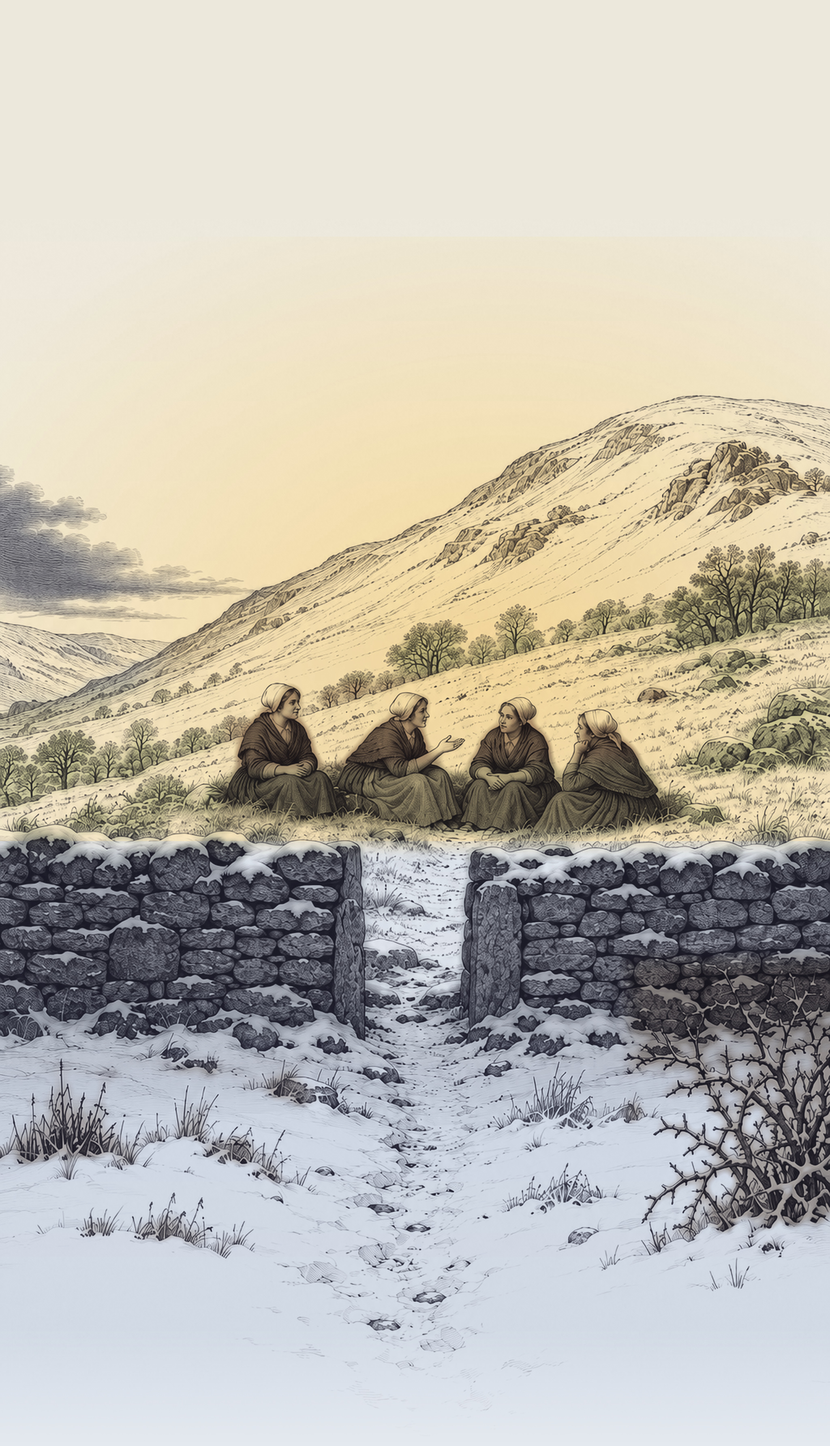
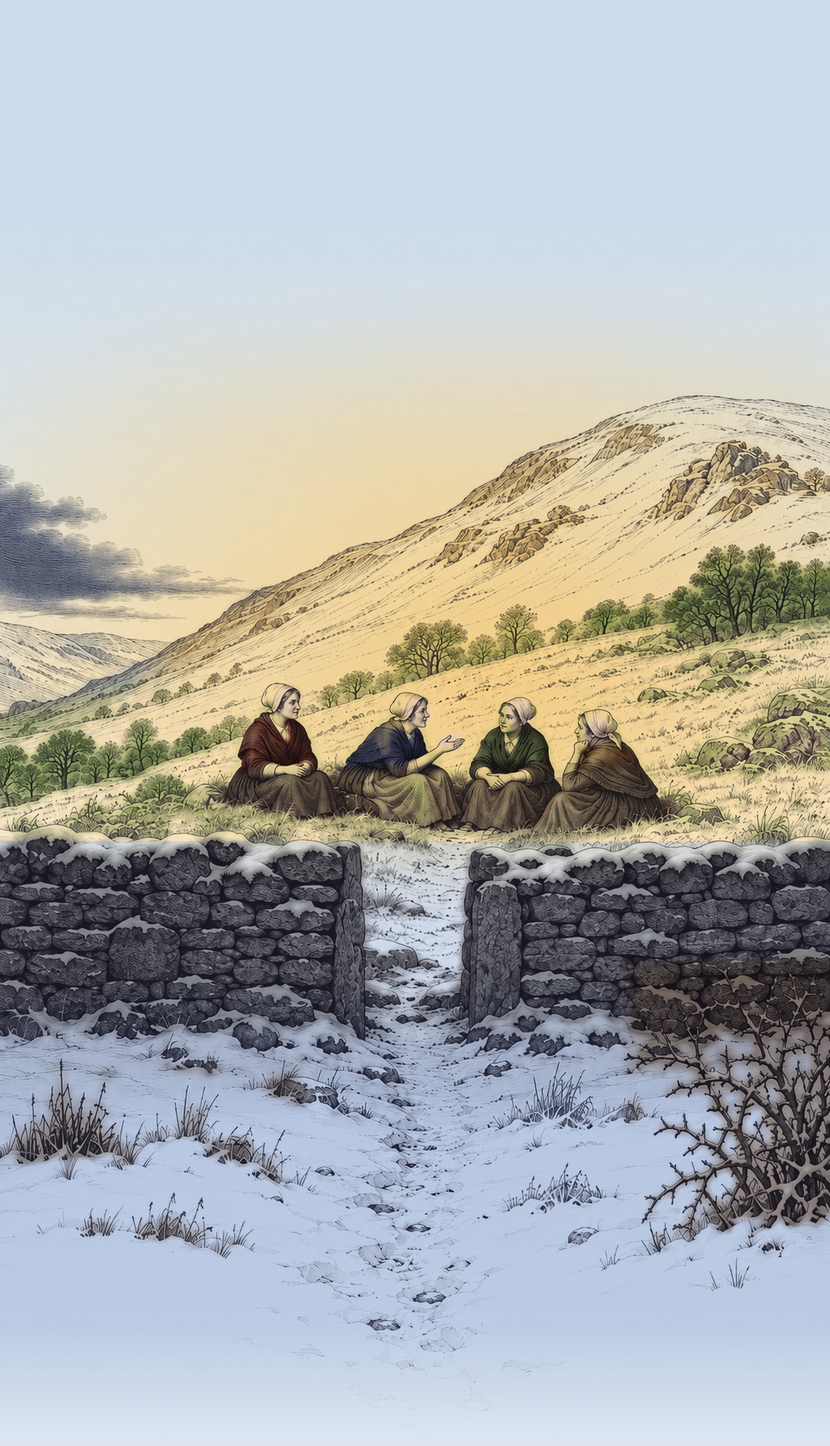
Grace Abounding: the cover in fuller colour
Blue sky warming to gold over the mountain, a green slope, each woman in
her own shawl (madder, indigo, moss, russet), blue snow on our side; the
spine and back follow the plate's new colours.

Claude-Session: https://claude.ai/code/session_01HJdxMYy51fWp1DAHHpjxgG

diff --git a/books/john-bunyan/grace-abounding/art/tint.py b/books/john-bunyan/grace-abounding/art/tint.py
@@ -32,19 +32,20 @@ def ellipse_mask(cx, cy, rx, ry, blur):
     ImageDraw.Draw(m).ellipse([(cx - rx) * k, (cy - ry) * k, (cx + rx) * k, (cy + ry) * k], fill=255)
     return m.filter(ImageFilter.GaussianBlur(blur * k))
 
-# the paper: a pale warm sky, the snow below the wall a cold blue-grey
+# the paper: a soft blue sky warming toward the mountain; the snow below the
+# wall a cold blue
 WALL = int(540 * k)
 paper = Image.new("RGB", (W, H))
-paper.paste(vgrad(W, WALL, (238, 234, 222), (246, 236, 212)), (0, 0))
-paper.paste(vgrad(W, H - WALL, (222, 228, 236), (232, 236, 240)), (0, WALL))
+paper.paste(vgrad(W, WALL, (206, 222, 238), (250, 236, 206)), (0, 0))
+paper.paste(vgrad(W, H - WALL, (206, 218, 236), (226, 233, 242)), (0, WALL))
 
 # the sun on the mountain and the women: a warm glow within the wall
 glow = Image.radial_gradient("L").resize((int(900 * k), int(700 * k)))
 glow = ImageOps.invert(glow).point(lambda v: int(max(0, v - 40) * 1.25))
 gm = Image.new("L", (W, H), 0)
-gm.paste(glow, (int(420 * k - 450 * k), int(380 * k - 350 * k)))
-gm = ImageChops.multiply(gm, poly_mask([(0, 0), (700, 0), (700, 545), (0, 545)], 6))
-paper = wash(paper, (248, 214, 140), gm, 0.75)
+gm.paste(glow, (int(420 * k - 450 * k), int(400 * k - 350 * k)))
+gm = ImageChops.multiply(gm, poly_mask([(0, 120), (700, 120), (700, 545), (0, 545)], 40))
+paper = wash(paper, (250, 206, 120), gm, 0.8)
 
 # where the engraver drew densely, so washes keep inside the drawing
 dense = ImageOps.invert(line).filter(ImageFilter.GaussianBlur(4 * k)).point(
@@ -53,23 +54,47 @@ dense = ImageOps.invert(line).filter(ImageFilter.GaussianBlur(4 * k)).point(
 def in_drawing(mask):
     return ImageChops.multiply(mask, dense)
 
-# the dark cloud at the far left, cold slate
-paper = wash(paper, (150, 158, 178), in_drawing(poly_mask([(0, 215), (220, 230), (230, 330), (0, 365)], 10)), 0.6)
-# the far hills at the left, cool and pale
-paper = wash(paper, (176, 186, 200), in_drawing(poly_mask([(0, 350), (150, 365), (120, 420), (0, 425)], 10)), 0.5)
-# the mountainside in the sun: warm ochre high up, grass green lower down
-paper = wash(paper, (214, 182, 120), in_drawing(poly_mask([(130, 380), (420, 220), (560, 165), (700, 160), (700, 330), (150, 440)], 14)), 0.55)
-paper = wash(paper, (168, 172, 112), in_drawing(poly_mask([(0, 440), (330, 360), (700, 300), (700, 545), (0, 545)], 14)), 0.55)
-# the women: shawls a muted madder and brown, dresses warm grey; caps left paper
-paper = wash(paper, (150, 92, 78), in_drawing(poly_mask([(190, 405), (565, 400), (565, 470), (190, 480)], 4)), 0.45)
-paper = wash(paper, (140, 120, 98), in_drawing(poly_mask([(185, 470), (570, 460), (575, 530), (185, 530)], 4)), 0.45)
-# the wall, cold grey stone under its snow
-paper = wash(paper, (150, 156, 166), in_drawing(poly_mask([(0, 535), (700, 535), (700, 705), (0, 705)], 6)), 0.6)
+# heavy hatching: the women's clothes and the outlines round them; the land's
+# washes keep off it, the shawls keep to it
+cloth = ImageOps.invert(line).filter(ImageFilter.GaussianBlur(2 * k)).point(
+    lambda v: 0 if v < 90 else 255 if v > 150 else int((v - 90) * 4.25))
+not_cloth = ImageOps.invert(cloth.filter(ImageFilter.MaxFilter(17)).filter(ImageFilter.GaussianBlur(3 * k)))
+
+def on_land(mask):
+    return ImageChops.multiply(in_drawing(mask), not_cloth)
+
+# the dark cloud at the far left, cold slate blue
+paper = wash(paper, (112, 128, 162), in_drawing(poly_mask([(0, 215), (220, 230), (230, 330), (0, 365)], 10)), 0.75)
+# the far hills at the left, cool blue
+paper = wash(paper, (150, 170, 200), in_drawing(poly_mask([(0, 350), (150, 365), (120, 420), (0, 425)], 10)), 0.65)
+# the mountainside in the sun: gold high up, grass green lower down, the
+# trees a deeper green, the rocks warm grey
+paper = wash(paper, (222, 170, 82), on_land(poly_mask([(130, 380), (420, 220), (560, 165), (700, 160), (700, 330), (150, 440)], 14)), 0.75)
+paper = wash(paper, (140, 168, 72), on_land(poly_mask([(0, 440), (330, 360), (700, 300), (700, 545), (0, 545)], 14)), 0.7)
+paper = wash(paper, (84, 120, 60), in_drawing(poly_mask([(500, 280), (700, 280), (700, 360), (500, 370)], 8)), 0.6)
+paper = wash(paper, (84, 120, 60), in_drawing(poly_mask([(0, 440), (180, 420), (180, 500), (0, 505)], 8)), 0.55)
+# the women, each her own shawl, over warm grey-brown skirts: washed only
+# where the engraver hatched heavily (the cloth, not the grass round it), and
+# below the faces; then the faces and the raised hand in a light flesh tone
+FACES = [(243, 422), (352, 432), (438, 432), (503, 446)]
+for (x0, x1), (fx, fy), colour in [((190, 268), FACES[0], (150, 54, 46)),    # madder red
+                                   ((282, 386), FACES[1], (52, 70, 128)),    # indigo
+                                   ((392, 468), FACES[2], (78, 108, 62)),    # moss green
+                                   ((462, 560), FACES[3], (150, 86, 44))]:   # russet
+    m = poly_mask([(x0, fy + 14), (x1, fy + 14), (x1, 478), (x0, 482)], 2)
+    paper = wash(paper, colour, ImageChops.multiply(m, cloth), 0.75)
+paper = wash(paper, (128, 104, 82), ImageChops.multiply(poly_mask([(188, 478), (568, 470), (570, 530), (188, 530)], 2), cloth), 0.6)
+for fx, fy in FACES:
+    paper = wash(paper, (238, 208, 182), ellipse_mask(fx, fy, 11, 13, 2), 0.9)
+paper = wash(paper, (238, 208, 182), ellipse_mask(380, 456, 10, 7, 2), 0.9)
+
+# the wall, grey stone warmed a little, under its snow
+paper = wash(paper, (128, 126, 128), in_drawing(poly_mask([(0, 535), (700, 535), (700, 705), (0, 705)], 6)), 0.7)
 # the snow and our side of the wall in shadow, cold blue
-paper = wash(paper, (176, 190, 214), poly_mask([(0, 690), (700, 690), (700, 1050), (0, 1050)], 30), 0.35)
+paper = wash(paper, (150, 172, 214), poly_mask([(0, 690), (700, 690), (700, 1050), (0, 1050)], 30), 0.45)
 # frost-bitten grass and the thorn bush, a cold brown
-paper = wash(paper, (128, 108, 92), in_drawing(poly_mask([(530, 640), (700, 640), (700, 880), (530, 880)], 6)), 0.5)
-paper = wash(paper, (128, 108, 92), in_drawing(poly_mask([(0, 730), (260, 730), (260, 900), (0, 900)], 6)), 0.4)
+paper = wash(paper, (120, 92, 70), in_drawing(poly_mask([(530, 640), (700, 640), (700, 880), (530, 880)], 6)), 0.6)
+paper = wash(paper, (120, 92, 70), in_drawing(poly_mask([(0, 730), (260, 730), (260, 900), (0, 900)], 6)), 0.5)
 
 # the line over all of it
 lines = ImageOps.colorize(line, black=ink, white=(255, 255, 255))
@@ -77,7 +102,7 @@ plate = ImageChops.multiply(paper, lines)
 
 # the foot fades into plain snow (the cover's front-ground below it), so the
 # plate's edge never shows
-FOOT = (228, 233, 239)
+FOOT = (222, 230, 242)
 fade = Image.new("L", (W, H), 0)
 fade.paste(Image.linear_gradient("L").resize((W, int(100 * k))), (0, H - int(100 * k)))
 plate = Image.composite(Image.new("RGB", (W, H), FOOT), plate, fade)

diff --git a/.claude/skills/cover-design/SKILL.md b/.claude/skills/cover-design/SKILL.md
@@ -37,7 +37,7 @@ Covers already done (read them as worked examples, `books/<author>/<book>/cover.
 | Glorious Feast | the cup in a wreath of vine | vector, `art/chalice.svg` |
 | Sinners | the pit's glow, sparks, a spider small on its thread | vector + Typst (`art/spider.svg`) |
 | Crook in the Lot | the Ettrick hills at dawn, a shepherd's crook in the near hill | ChatGPT engraving, hand-tinted, `art/plate.jpg` (`art/tint.py`) |
-| Grace Abounding | Bunyan's vision (§53-55): poor women of Bedford in the sun on a mountainside, a snowy wall with one narrow gap ("Jesus Christ, who is the way") | ChatGPT engraving, hand-tinted warm within the wall and cold without, `art/plate.jpg` (`art/tint.py`, sky extended above the scene) |
+| Grace Abounding | Bunyan's vision (§53-55): poor women of Bedford in the sun on a mountainside, a snowy wall with one narrow gap ("Jesus Christ, who is the way") | ChatGPT engraving, vibrant hand-tint (blue sky, gold and green slope, each woman her own shawl, blue snow), `art/plate.jpg` (`art/tint.py`: shawls washed only where the cloth is hatched heavily, land washes kept off the figures, faces in flesh; sky extended above the scene) |
 | Christian Economy | a timber-framed house of 1609, the title page's "an house built" (Prov. 24:3) | ChatGPT engraving, one ink (deep mulberry) on pale rose, `art/plate.png` |
 | Mortification of Sin | no picture: Romans 8:13, the verse the book expounds, "mortify" and "ye shall live" in gold | type only, oxblood and gold (Typst `art`) |
 | Of Domestical Duties (4 vols) | no picture: lettered after the 1622 title page, the eight treatises with this volume's picked out | type only, olive and gold, `scripts/set_cover.typ` |
